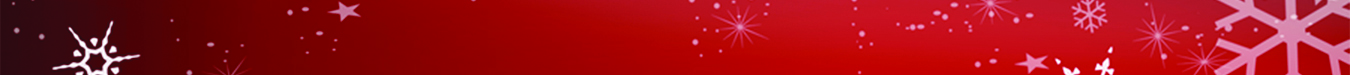
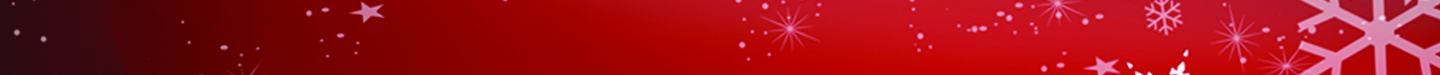
fix

diff --git a/public/assets/css/style.css b/public/assets/css/style.css
@@ -6,7 +6,7 @@ a {
 }
 .top {
     /*background: #2b74a1 none repeat scroll 0 0;*/
-    background: rgba(0, 0, 0, 0) url("../images/topbg.jpg") no-repeat scroll 0 100%;
+    background: rgba(0, 0, 0, 0) url("../images/topbg.jpg") no-repeat scroll 100% 100%;
     padding-bottom: 5px;
     padding-top: 5px;
 }

diff --git a/app/views/site/common/navbar.blade.php b/app/views/site/common/navbar.blade.php
@@ -1,24 +1,24 @@
 <div class="menu-top">
 <div class="container">
 		<div class="row">
-	<div class="menu-static">
-		<ul>
-			<li><a href="{{ url('/') }}" {{ checkActive() }}><i class="fa fa-home"></i><span>Home</span></a></li>
-			@if(getDevice() == COMPUTER)
-				<li><a href="{{ action('GameController@getListGameVote') }}" {{ checkActive('game-binh-chon-nhieu') }}><i class="fa fa-star"></i><span>Bình chọn nhiều</br></span></a></li>
-			@else
-				<li><a href="{{ action('GameController@getListGameVote') }}" {{ checkActive('game-binh-chon-nhieu') }}><i class="fa fa-star"></i><span>Vote nhiều</br></span></a></li>
-			@endif
-				<li><a href="{{ action('GameController@getListGameplay') }}" {{ checkActive('game-choi-nhieu') }}><i class="fa fa-gamepad"></i><span>Hay nhất</span></a></li>
-				<li><a href="{{ action('SiteNewsController@index') }}" {{ checkActive('tin-tuc') }}><i class="fa fa-newspaper-o"></i><span>Tin tức</span></a></li>
-			@if(getDevice() == COMPUTER)
-				<li><a href="{{ action('GameController@getListGameAndroid') }}" {{ checkActive('game-android') }}><i class="fa fa-android"></i><span>Game android</span></a></li>
-			@else
-				<li><a href="{{ action('GameController@getListGameAndroid') }}" {{ checkActive('game-android') }}><i class="fa fa-android"></i><span>Android</span></a></li>
-			@endif
-		</ul>
-		<div class="clearfix"></div>
-	</div>
-</div>
+			<div class="menu-static">
+				<ul>
+					<li><a href="{{ url('/') }}" {{ checkActive() }}><i class="fa fa-home"></i><span>Home</span></a></li>
+					@if(getDevice() == COMPUTER)
+						<li><a href="{{ action('GameController@getListGameVote') }}" {{ checkActive('game-binh-chon-nhieu') }}><i class="fa fa-star"></i><span>Bình chọn nhiều</br></span></a></li>
+					@else
+						<li><a href="{{ action('GameController@getListGameVote') }}" {{ checkActive('game-binh-chon-nhieu') }}><i class="fa fa-star"></i><span>Vote nhiều</br></span></a></li>
+					@endif
+						<li><a href="{{ action('GameController@getListGameplay') }}" {{ checkActive('game-choi-nhieu') }}><i class="fa fa-gamepad"></i><span>Hay nhất</span></a></li>
+						<li><a href="{{ action('SiteNewsController@index') }}" {{ checkActive('tin-tuc') }}><i class="fa fa-newspaper-o"></i><span>Tin tức</span></a></li>
+					@if(getDevice() == COMPUTER)
+						<li><a href="{{ action('GameController@getListGameAndroid') }}" {{ checkActive('game-android') }}><i class="fa fa-android"></i><span>Game android</span></a></li>
+					@else
+						<li><a href="{{ action('GameController@getListGameAndroid') }}" {{ checkActive('game-android') }}><i class="fa fa-android"></i><span>Android</span></a></li>
+					@endif
+				</ul>
+				<div class="clearfix"></div>
+			</div>
+		</div>
 	</div>
 </div>
